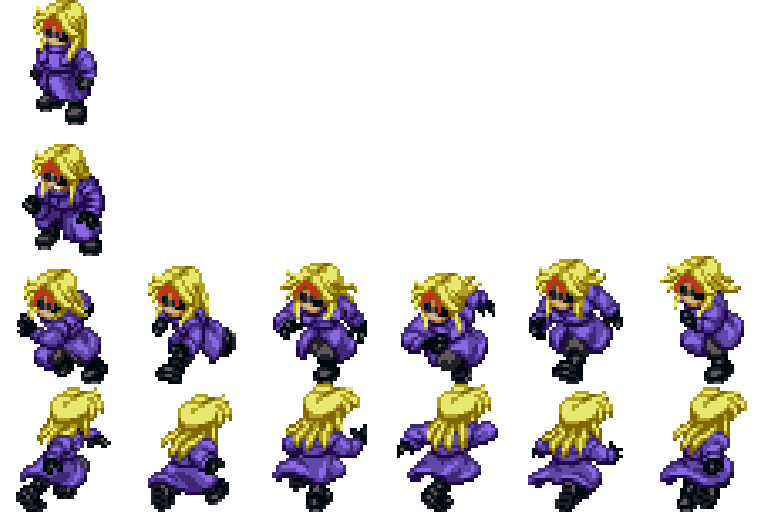
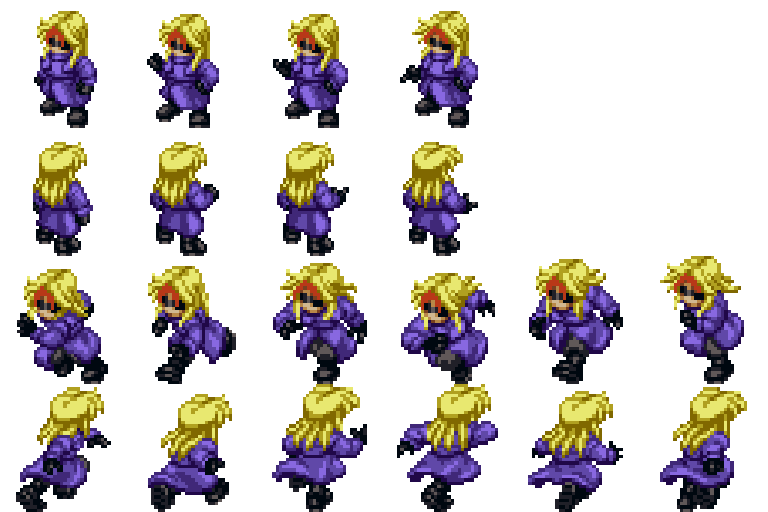
fix sprite bobbing error

diff --git a/client/src/entities/CharacterSprite.ts b/client/src/entities/CharacterSprite.ts
@@ -18,6 +18,12 @@ import { getSpriteManifest } from "@/sprites/manifests/brawler";
  * per-character vertical offset to tune; if a character's feet don't
  * land on the tile, the source art doesn't follow the convention, not
  * this component.
+ *
+ * Direction: setDirection() reloads the strip for the current anim at
+ * the new IsoFacing. The loader mirrors NE↔NW / SE↔SW when a facing
+ * has no authored row (flipX on the strip).
+ *
+ * Idle uses authored multi-frame strips from the atlas — no runtime bob.
  */
 export class CharacterSprite {
 	readonly view = new Container();
@@ -33,10 +39,6 @@ export class CharacterSprite {
 	private direction: IsoFacing = "se";
 	private externalScale: number;
 	private flipX = false;
-	private runtimeIdle = false;
-	private idleBobY: number[];
-	private idleBobPeriodMs: number;
-	private idleBobElapsedMs = 0;
 	/** Guards against an in-flight play() from an earlier direction overwriting a newer one — see docs/15. */
 	private playToken = 0;
 
@@ -44,8 +46,6 @@ export class CharacterSprite {
 		this.characterClass = characterClass;
 		const manifest = getSpriteManifest(characterClass);
 		this.externalScale = manifest.scale;
-		this.idleBobY = manifest.idleBobY;
-		this.idleBobPeriodMs = manifest.idleBobPeriodMs;
 
 		// Bottom-center anchor + y=0 is the entire positioning contract —
 		// this is what "feet at frame bottom" in the source art buys us.
@@ -115,10 +115,6 @@ export class CharacterSprite {
 			return false;
 		}
 
-		const manifest = getSpriteManifest(this.characterClass);
-		const animMeta = manifest.animations[animation];
-		this.runtimeIdle = !!animMeta?.runtimeIdle && animation === "idle";
-
 		const sameAnim = this.currentAnim === animation && this.strip !== null;
 		this.strip = strip;
 		this.currentAnim = animation;
@@ -126,7 +122,6 @@ export class CharacterSprite {
 		if (!preserveProgress || !sameAnim) {
 			this.frameIndex = 0;
 			this.frameElapsedMs = 0;
-			this.idleBobElapsedMs = 0;
 		}
 		this.frameIndex = Math.min(this.frameIndex, strip.frames.length - 1);
 		this.loop = options.loop ?? strip.loop;
@@ -157,17 +152,14 @@ export class CharacterSprite {
 		return this.currentAnim;
 	}
 
+	get facing(): IsoFacing {
+		return this.direction;
+	}
+
 	update(deltaTime: number): void {
-		const dtMs = (deltaTime / 60) * 1000;
-
-		if (this.runtimeIdle) {
-			this.idleBobElapsedMs += dtMs;
-			this.sprite.y = Math.round(this.sampleIdleBob());
-			return;
-		}
-
 		if (!this.playing || !this.strip) return;
 
+		const dtMs = (deltaTime / 60) * 1000;
 		const frameMs = this.currentFrameDurationMs();
 		this.frameElapsedMs += dtMs;
 
@@ -190,28 +182,6 @@ export class CharacterSprite {
 
 			this.sprite.texture = this.strip.frames[this.frameIndex]!;
 		}
-	}
-
-	/**
-	 * Smoothly interpolates between the manifest's idleBobY keyframes
-	 * instead of stepping discretely between them — a discrete lookup
-	 * here was a second, independent source of visible jitter, since
-	 * each step is a hard snap rather than a continuous motion.
-	 */
-	private sampleIdleBob(): number {
-		if (this.idleBobY.length === 0) return 0;
-		if (this.idleBobY.length === 1) return this.idleBobY[0]!;
-
-		const t =
-			(this.idleBobElapsedMs % this.idleBobPeriodMs) / this.idleBobPeriodMs;
-		const scaled = t * this.idleBobY.length;
-		const i0 = Math.floor(scaled) % this.idleBobY.length;
-		const i1 = (i0 + 1) % this.idleBobY.length;
-		const localT = scaled - Math.floor(scaled);
-
-		const a = this.idleBobY[i0]!;
-		const b = this.idleBobY[i1]!;
-		return a + (b - a) * localT;
 	}
 
 	private currentFrameDurationMs(): number {

diff --git a/client/src/manifests/brawler.ts b/client/src/manifests/brawler.ts
@@ -1,9 +1,17 @@
 /**
  * Per-character sprite manifest — source of truth for frame counts / timing.
  * Packer + runtime both align to this (runtime also reads atlas.json rows).
+ *
+ * Deliberately does NOT declare frameWidth/frameHeight or a
+ * footOffsetY here — every character sheet uses the one global
+ * SPRITE_FRAME_WIDTH/HEIGHT (see types/characterSprite.ts) and the
+ * fixed feet-at-frame-bottom convention, enforced by the packer.
+ * There is nothing per-character to tune for either.
+ *
+ * Idle is authored multi-frame strips (no runtime bob). NW/SW come from
+ * mirroring NE/SE in characterSprites.resolveRow when those rows are absent.
  */
-import type { CharacterAnimation } from "@/types/characterSprite";
-import type { IsoFacing } from "@/types/characterSprite";
+import type { CharacterAnimation, IsoFacing } from "@/types/characterSprite";
 
 export interface AnimManifest {
 	/** Authored frames in the strip (packer / atlas). */
@@ -13,21 +21,12 @@ export interface AnimManifest {
 	fps?: number;
 	/** Per-frame ms — length should match frames when set. */
 	durations?: number[];
-	/** Use single pose + runtime bob instead of multi-frame idle. */
-	runtimeIdle?: boolean;
 }
 
 export interface CharacterSpriteManifest {
 	characterClass: string;
-	frameWidth: number;
-	frameHeight: number;
-	/** Map display scale (128 cell → ~64 on map). */
+	/** Map display scale — see MAP_SPRITE_SCALE; override only for a genuinely different silhouette size, not to compensate for wrong-size source art. */
 	scale: number;
-	/** Foot pad inside cell (texture px); applied as sprite.y after anchor. */
-	footOffsetY: number;
-	/** Integer-pixel idle bob amplitudes (texture px, pre-scale). */
-	idleBobY: number[];
-	idleBobPeriodMs: number;
 	animations: Partial<Record<CharacterAnimation, AnimManifest>>;
 	/** Preferred authored facings for this character. */
 	facings: IsoFacing[];
@@ -35,27 +34,19 @@ export interface CharacterSpriteManifest {
 
 export const brawlerSprite: CharacterSpriteManifest = {
 	characterClass: "brawler",
-	frameWidth: 128,
-	frameHeight: 128,
 	scale: 0.5,
-	// Negative = shift sprite up so boots sit on tile centre — tune in-game
-	footOffsetY: -16,
-	idleBobY: [0, -1, -2, -1, 0],
-	idleBobPeriodMs: 1400,
 	facings: ["se", "sw", "ne", "nw"],
 	animations: {
+		// 4-frame authored idle per facing (idle_se.png / idle_ne.png = 512×128)
 		idle: {
-			frames: 1,
+			frames: 4,
 			loop: true,
-			runtimeIdle: true,
-			fps: 1,
+			fps: 4,
 		},
 		walk: {
 			frames: 6,
 			loop: true,
 			fps: 9,
-			// optional uneven contacts:
-			// durations: [100, 70, 100, 70, 100, 70],
 		},
 		run: {
 			frames: 4,
@@ -65,7 +56,6 @@ export const brawlerSprite: CharacterSpriteManifest = {
 		attack: {
 			frames: 5,
 			loop: false,
-			// ready → anticipation → STRIKE → follow → recover
 			durations: [100, 90, 45, 70, 120],
 		},
 		hit: {
